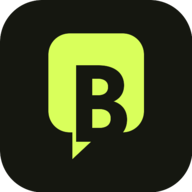
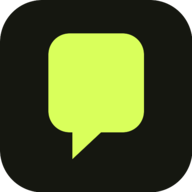
feat: redesign home around promise types

Changed region(s): [[0.375, 0.3125, 0.6875, 0.75]]

diff --git a/ui/src/App.tsx b/ui/src/App.tsx
@@ -1,6 +1,6 @@
 import { useEffect, useState, type FormEvent, type ReactNode } from "react";
 import { Link, NavLink, Navigate, Route, Routes, useNavigate, useParams } from "react-router-dom";
-import { Activity as ActivityIcon, ArrowLeft, ArrowRight, BellRing, Check, ChevronDown, Clock3, Copy, Fingerprint, HandHeart, Home, LoaderCircle, LogOut, Moon, PackageCheck, Plus, ScanLine, ShieldCheck, Sun, UserRound } from "lucide-react";
+import { Activity as ActivityIcon, ArrowLeft, ArrowRight, BellRing, Check, ChevronDown, Clock3, Copy, Fingerprint, HandHeart, Home, LoaderCircle, LogOut, Moon, PackageCheck, ScanLine, ShieldCheck, Sun, UserRound } from "lucide-react";
 import { QRCodeSVG } from "qrcode.react";
 import { Button } from "@/components/ui/button";
 import { DropdownMenu, DropdownMenuContent, DropdownMenuItem, DropdownMenuTrigger } from "@/components/ui/dropdown-menu";
@@ -30,11 +30,11 @@ function Login({ onVerified }: { onVerified: () => Promise<void> }) {
     <main className="login-screen">
       <div className="login-orbit" aria-hidden="true"><span /><span /><span /></div>
       <section className="relative z-10 mx-auto flex min-h-dvh max-w-md flex-col justify-between px-6 py-8">
-        <div className="flex items-center gap-3 text-sm font-semibold tracking-tight"><span className="brand-mark"><HandHeart /></span> Borrow From A Human</div>
+        <div className="flex items-center gap-3 text-sm font-semibold tracking-tight"><span className="brand-mark"><HandHeart /></span> Promise</div>
         <div className="pb-8">
           <p className="eyebrow">Proof of promise</p>
           <h1 className="mt-4 text-[3.4rem] font-black leading-[.92] tracking-[-.07em]">Things move.<br /><span className="text-primary-foreground/55">Trust stays.</span></h1>
-          <p className="mt-6 max-w-sm text-base leading-7 text-primary-foreground/70">Borrow what you need from a verified person, and turn a simple handover into a promise both sides can trust.</p>
+          <p className="mt-6 max-w-sm text-base leading-7 text-primary-foreground/70">Make a clear promise with another verified person—and keep every step visible to both of you.</p>
         </div>
         <div className="rounded-[2rem] bg-background p-5 text-foreground shadow-2xl shadow-black/20">
           <div className="mb-5 flex items-center gap-3"><span className="grid size-11 place-items-center rounded-2xl bg-primary"><ShieldCheck className="size-5" /></span><div><p className="font-bold">One human, one account</p><p className="text-sm text-muted-foreground">Private verification by World ID</p></div></div>
@@ -50,7 +50,7 @@ function Shell({ children }: { children: ReactNode }) {
   return (
     <div className="min-h-dvh bg-background text-foreground">
       <header className="sticky top-0 z-20 border-b border-border/60 bg-background/85 backdrop-blur-xl">
-        <div className="mx-auto flex h-16 max-w-5xl items-center justify-between px-5"><Link to="/" className="flex items-center gap-2 font-extrabold tracking-tight"><span className="brand-mark small"><HandHeart /></span><span className="hidden sm:inline">Borrow From A Human</span><span className="sm:hidden">Borrow</span></Link><span className="verified-pill"><Fingerprint /> Human verified</span></div>
+        <div className="mx-auto flex h-16 max-w-5xl items-center justify-between px-5"><Link to="/" className="flex items-center gap-2 font-extrabold tracking-tight"><span className="brand-mark small"><HandHeart /></span><span>Promise</span></Link><span className="verified-pill"><Fingerprint /> Human verified</span></div>
       </header>
       <main className="mx-auto max-w-5xl px-5 pb-28 pt-7">{children}</main>
       <nav className="bottom-nav" aria-label="Primary navigation">
@@ -89,11 +89,34 @@ function PromiseHome() {
   }
 
   const active = promises?.filter((entry) => entry.status !== "FULFILLED") ?? [];
-  return <Shell><section className="page-heading"><p className="eyebrow text-muted-foreground">Promise tab</p><h1>What do you need<br />from a human?</h1><p>Make a clear, time-bound promise. Keep it together, in person.</p></section>
-    {!open ? <button className="make-card" onClick={() => setOpen(true)}><span className="make-icon"><Plus /></span><span><strong>Make a promise</strong><small>Start with a lend request</small></span><ArrowRight /></button> :
-      <form onSubmit={submit} className="form-card"><div className="flex items-center justify-between"><div><p className="eyebrow text-muted-foreground">New promise · Lend</p><h2>Ask to borrow</h2></div><Button type="button" variant="ghost" size="sm" onClick={() => setOpen(false)}>Close</Button></div><div className="grid gap-2"><Label htmlFor="item">What do you need?</Label><Input id="item" autoFocus maxLength={80} required placeholder="e.g. a portable charger" value={item} onChange={(e) => setItem(e.target.value)} /></div><div className="grid gap-2"><Label htmlFor="deadline">Return by</Label><Input id="deadline" type="datetime-local" required value={deadline} onChange={(e) => setDeadline(e.target.value)} /></div><div className="grid gap-2"><div className="flex justify-between"><Label htmlFor="note">A note <span className="font-normal text-muted-foreground">(optional)</span></Label><span className="text-xs text-muted-foreground">{note.length}/240</span></div><Textarea id="note" maxLength={240} placeholder="Condition, meeting point, or anything useful…" value={note} onChange={(e) => setNote(e.target.value)} /></div>{error && <p role="alert" className="text-sm text-destructive">{error}</p>}<Button size="lg" disabled={busy} className="h-14 rounded-2xl">{busy && <LoaderCircle className="animate-spin" />}Create lend promise <ArrowRight /></Button></form>}
+  return <Shell><div className="promise-home">
+    <img className="promise-home-wave promise-home-wave-top" src="/promise-assets/decorations/top-wave.svg" alt="" />
+    <section className="promise-picker-heading">
+      <img className="promise-heading-spark" src="/promise-assets/decorations/orange-spark.svg" alt="" />
+      <img className="promise-heading-leaves" src="/promise-assets/decorations/header-leaves.svg" alt="" />
+      <p className="eyebrow text-muted-foreground">Your word, made visible</p>
+      <h1>Make a Promise</h1>
+      <p>Choose what kind of promise you want to make.</p>
+    </section>
+    {!open ? <section className="promise-type-grid" aria-label="Promise types">
+      <article className="promise-type-card promise-type-return">
+        <div className="promise-type-art"><img src="/promise-assets/illustrations/borrow-return.png" alt="Two people passing a book" /><img className="promise-type-spark" src="/promise-assets/decorations/green-spark.svg" alt="" /></div>
+        <h2>Promise to Return</h2>
+        <p>Borrow an item and promise to return it on time.</p>
+        <button type="button" onClick={() => setOpen(true)}>Start this promise <ArrowRight /></button>
+      </article>
+      <article className="promise-type-card promise-type-show-up">
+        <div className="promise-type-art"><img src="/promise-assets/illustrations/reservation-calendar.png" alt="Calendar with a check mark" /></div>
+        <span className="coming-soon">Coming soon</span>
+        <h2>Promise to Show Up</h2>
+        <p>Book a place or time and promise to be there.</p>
+        <button type="button" disabled>Coming soon</button>
+      </article>
+    </section> :
+      <form onSubmit={submit} className="form-card promise-form"><div className="flex items-center justify-between"><div><p className="eyebrow text-muted-foreground">Promise to Return</p><h2>What will you return?</h2></div><Button type="button" variant="ghost" size="sm" onClick={() => setOpen(false)}>Back</Button></div><div className="grid gap-2"><Label htmlFor="item">Item</Label><Input id="item" autoFocus maxLength={80} required placeholder="e.g. a portable charger" value={item} onChange={(e) => setItem(e.target.value)} /></div><div className="grid gap-2"><Label htmlFor="deadline">Promise to return it by</Label><Input id="deadline" type="datetime-local" required value={deadline} onChange={(e) => setDeadline(e.target.value)} /></div><div className="grid gap-2"><div className="flex justify-between"><Label htmlFor="note">A note <span className="font-normal text-muted-foreground">(optional)</span></Label><span className="text-xs text-muted-foreground">{note.length}/240</span></div><Textarea id="note" maxLength={240} placeholder="Condition, meeting point, or anything useful…" value={note} onChange={(e) => setNote(e.target.value)} /></div>{error && <p role="alert" className="text-sm text-destructive">{error}</p>}<Button size="lg" disabled={busy} className="h-14 rounded-2xl">{busy && <LoaderCircle className="animate-spin" />}Make this promise <ArrowRight /></Button></form>}
     {promises === null ? <div className="activity-notice muted mt-8"><LoaderCircle className="animate-spin" /><span>Checking your activity…</span></div> : active.length > 0 && <Link to="/activity" className="activity-notice mt-8"><span className="notice-icon"><BellRing /></span><span><strong>{active.length} {active.length === 1 ? "promise" : "promises"} in motion</strong><small>See what needs attention</small></span><ArrowRight className="ml-auto" /></Link>}
-  </Shell>;
+    <img className="promise-home-wave promise-home-wave-bottom" src="/promise-assets/decorations/bottom-wave.svg" alt="" />
+  </div></Shell>;
 }
 
 function ActivityPage() {

diff --git a/ui/src/index.css b/ui/src/index.css
@@ -45,8 +45,37 @@
 .verified-pill { @apply flex items-center gap-1.5 rounded-full bg-secondary px-3 py-1.5 text-xs font-bold text-secondary-foreground; }.verified-pill svg { @apply size-3.5; }
 .bottom-nav { @apply fixed inset-x-3 bottom-3 z-30 mx-auto grid max-w-md grid-cols-3 rounded-[1.4rem] border border-border/80 bg-card/90 p-1.5 shadow-xl shadow-foreground/10 backdrop-blur-xl; padding-bottom: max(.375rem, env(safe-area-inset-bottom)); }.bottom-nav a { @apply flex flex-col items-center gap-1 rounded-2xl px-3 py-2 text-[.68rem] font-bold text-muted-foreground transition; }.bottom-nav svg { @apply size-5; }.bottom-nav a.active { @apply bg-primary text-primary-foreground; }
 .page-heading h1 { @apply mt-3 max-w-2xl text-4xl font-black leading-[.98] tracking-[-.055em] sm:text-6xl; }.page-heading>p:last-child { @apply mt-4 max-w-md text-sm leading-6 text-muted-foreground sm:text-base; }
-.make-card { @apply mt-8 flex w-full items-center gap-4 rounded-[1.75rem] bg-foreground p-5 text-left text-background shadow-lg transition hover:-translate-y-0.5 hover:shadow-xl sm:max-w-xl; }.make-card .make-icon { @apply grid size-12 place-items-center rounded-2xl bg-primary text-primary-foreground; }.make-card .make-icon svg { @apply size-6; }.make-card strong,.make-card small { @apply block; }.make-card strong { @apply text-lg; }.make-card small { @apply mt-0.5 text-sm text-background/60; }.make-card>svg { @apply ml-auto size-5; }
 .form-card { @apply mt-8 grid max-w-xl gap-5 rounded-[1.75rem] border bg-card p-5 shadow-sm sm:p-7; }.form-card h2 { @apply mt-1 text-2xl font-black tracking-tight; }.form-card input,.form-card textarea { @apply rounded-xl bg-background; }
+.promise-home { @apply relative isolate mx-auto max-w-4xl overflow-hidden rounded-[2rem] px-1 pb-14 sm:px-6 sm:pb-16; }
+.promise-home-wave { @apply pointer-events-none absolute left-0 -z-10 w-full opacity-80; }
+.promise-home-wave-top { @apply top-0 h-36 object-cover object-bottom; }
+.promise-home-wave-bottom { @apply bottom-0 h-24 object-cover object-top; }
+.promise-picker-heading { @apply relative mb-7 pt-12 sm:mb-9 sm:pt-16; }
+.promise-picker-heading h1 { color: #0c1739; @apply mt-2 text-[2.65rem] font-black leading-none tracking-[-.055em] sm:text-6xl; }
+.promise-picker-heading>p:last-child { color: #78849c; @apply mt-3 max-w-md text-base leading-6 sm:text-lg; }
+.promise-heading-leaves { @apply absolute right-1 top-5 h-20 w-16 object-contain sm:right-8 sm:top-7; }
+.promise-heading-spark { @apply absolute right-14 top-2 h-8 w-8 object-contain sm:right-24 sm:top-5; }
+.promise-type-grid { @apply grid gap-5 md:grid-cols-2; }
+.promise-type-card { @apply relative flex min-h-[25rem] flex-col overflow-hidden rounded-[1.75rem] p-5 shadow-[0_10px_25px_rgba(23,44,62,.08)] sm:p-6; }
+.promise-type-return { background: #f0fbf6; }
+.promise-type-show-up { background: #fff7eb; }
+.promise-type-art { @apply relative mb-3 flex h-32 items-center; }
+.promise-type-art>img:first-child { @apply h-full w-48 object-contain object-left; }
+.promise-type-show-up .promise-type-art>img:first-child { @apply w-32; }
+.promise-type-spark { @apply absolute left-44 top-6 h-9 w-9; }
+.promise-type-card h2 { color: #0c1739; @apply text-[1.75rem] font-black leading-tight tracking-[-.04em]; }
+.promise-type-card>p { color: #78849c; @apply mt-2 text-base leading-6; }
+.promise-type-card>button { @apply mt-auto flex h-14 w-full items-center justify-center gap-3 rounded-full text-base font-extrabold text-white shadow-md transition focus-visible:outline-3 focus-visible:outline-offset-3; }
+.promise-type-card>button svg { @apply size-5 transition-transform; }
+.promise-type-card>button:not(:disabled):hover { @apply -translate-y-0.5 shadow-lg; }
+.promise-type-card>button:not(:disabled):hover svg { @apply translate-x-1; }
+.promise-type-return>button { background: #37a983; outline-color: #0c1739; }
+.promise-type-show-up>button { background: #f39a43; outline-color: #0c1739; }
+.promise-type-card>button:disabled { @apply cursor-not-allowed opacity-45 shadow-none; }
+.coming-soon { color: #bd681c; background: #fff0d9; @apply absolute right-5 top-5 rounded-full px-3 py-1 text-[.65rem] font-extrabold uppercase tracking-wider; }
+.promise-form { @apply mx-auto mt-0 border-0 shadow-[0_10px_30px_rgba(23,44,62,.1)]; }
+.dark .promise-picker-heading h1,.dark .promise-type-card h2 { color: #0c1739; }
+.dark .promise-home-wave { @apply opacity-20; }
 .section-title { @apply mb-4 flex items-center gap-2; }.section-title h2 { @apply text-xl font-black tracking-tight; }.section-title span { @apply grid size-6 place-items-center rounded-full bg-secondary text-xs font-bold; }.card-grid { @apply grid gap-4 sm:grid-cols-2 lg:grid-cols-3; }
 .activity-notice { @apply flex max-w-xl items-center gap-3 rounded-2xl border border-primary/40 bg-primary/15 p-3.5 text-sm transition hover:border-primary hover:bg-primary/25; }.activity-notice .notice-icon { @apply grid size-10 shrink-0 place-items-center rounded-xl bg-primary text-primary-foreground; }.activity-notice svg { @apply size-5; }.activity-notice strong,.activity-notice small { @apply block; }.activity-notice strong { @apply font-extrabold; }.activity-notice small { @apply mt-0.5 text-xs text-muted-foreground; }.activity-notice.muted { @apply border-border bg-card text-muted-foreground; }
 .promise-card { @apply block rounded-[1.5rem] border bg-card p-5 shadow-sm transition hover:-translate-y-0.5 hover:shadow-md; }.promise-card h3 { @apply mt-5 text-2xl font-black tracking-tight; }.promise-card>p { @apply mt-1 text-sm text-muted-foreground; }.role-tag { @apply rounded-full bg-secondary px-2.5 py-1 text-[.68rem] font-bold uppercase tracking-wide text-secondary-foreground; }

diff --git a/ui/index.html b/ui/index.html
@@ -4,12 +4,12 @@
     <meta charset="UTF-8" />
     <meta name="viewport" content="width=device-width, initial-scale=1.0" />
     <meta name="theme-color" content="#d9ff5b" />
-    <meta name="description" content="Make simple promises with verified humans." />
+    <meta name="description" content="Make clear promises with verified humans and keep them together." />
     <meta name="apple-mobile-web-app-capable" content="yes" />
     <meta name="apple-mobile-web-app-status-bar-style" content="black-translucent" />
-    <meta name="apple-mobile-web-app-title" content="Borrow" />
+    <meta name="apple-mobile-web-app-title" content="Promise" />
     <link rel="apple-touch-icon" href="/apple-touch-icon.png" />
-    <title>Borrow From A Human</title>
+    <title>Promise — Make Your Word Visible</title>
   </head>
   <body>
     <div id="root"></div>

diff --git a/ui/vite.config.ts b/ui/vite.config.ts
@@ -33,9 +33,9 @@ export default defineConfig({
       registerType: "autoUpdate",
       includeAssets: ["pwa-icon.svg", "apple-touch-icon.png"],
       manifest: {
-        name: "Borrow From A Human",
-        short_name: "Borrow",
-        description: "Make simple promises with verified humans.",
+        name: "Promise",
+        short_name: "Promise",
+        description: "Make clear promises with verified humans and keep them together.",
         theme_color: "#d9ff5b",
         background_color: "#f6f5ed",
         display: "standalone",
